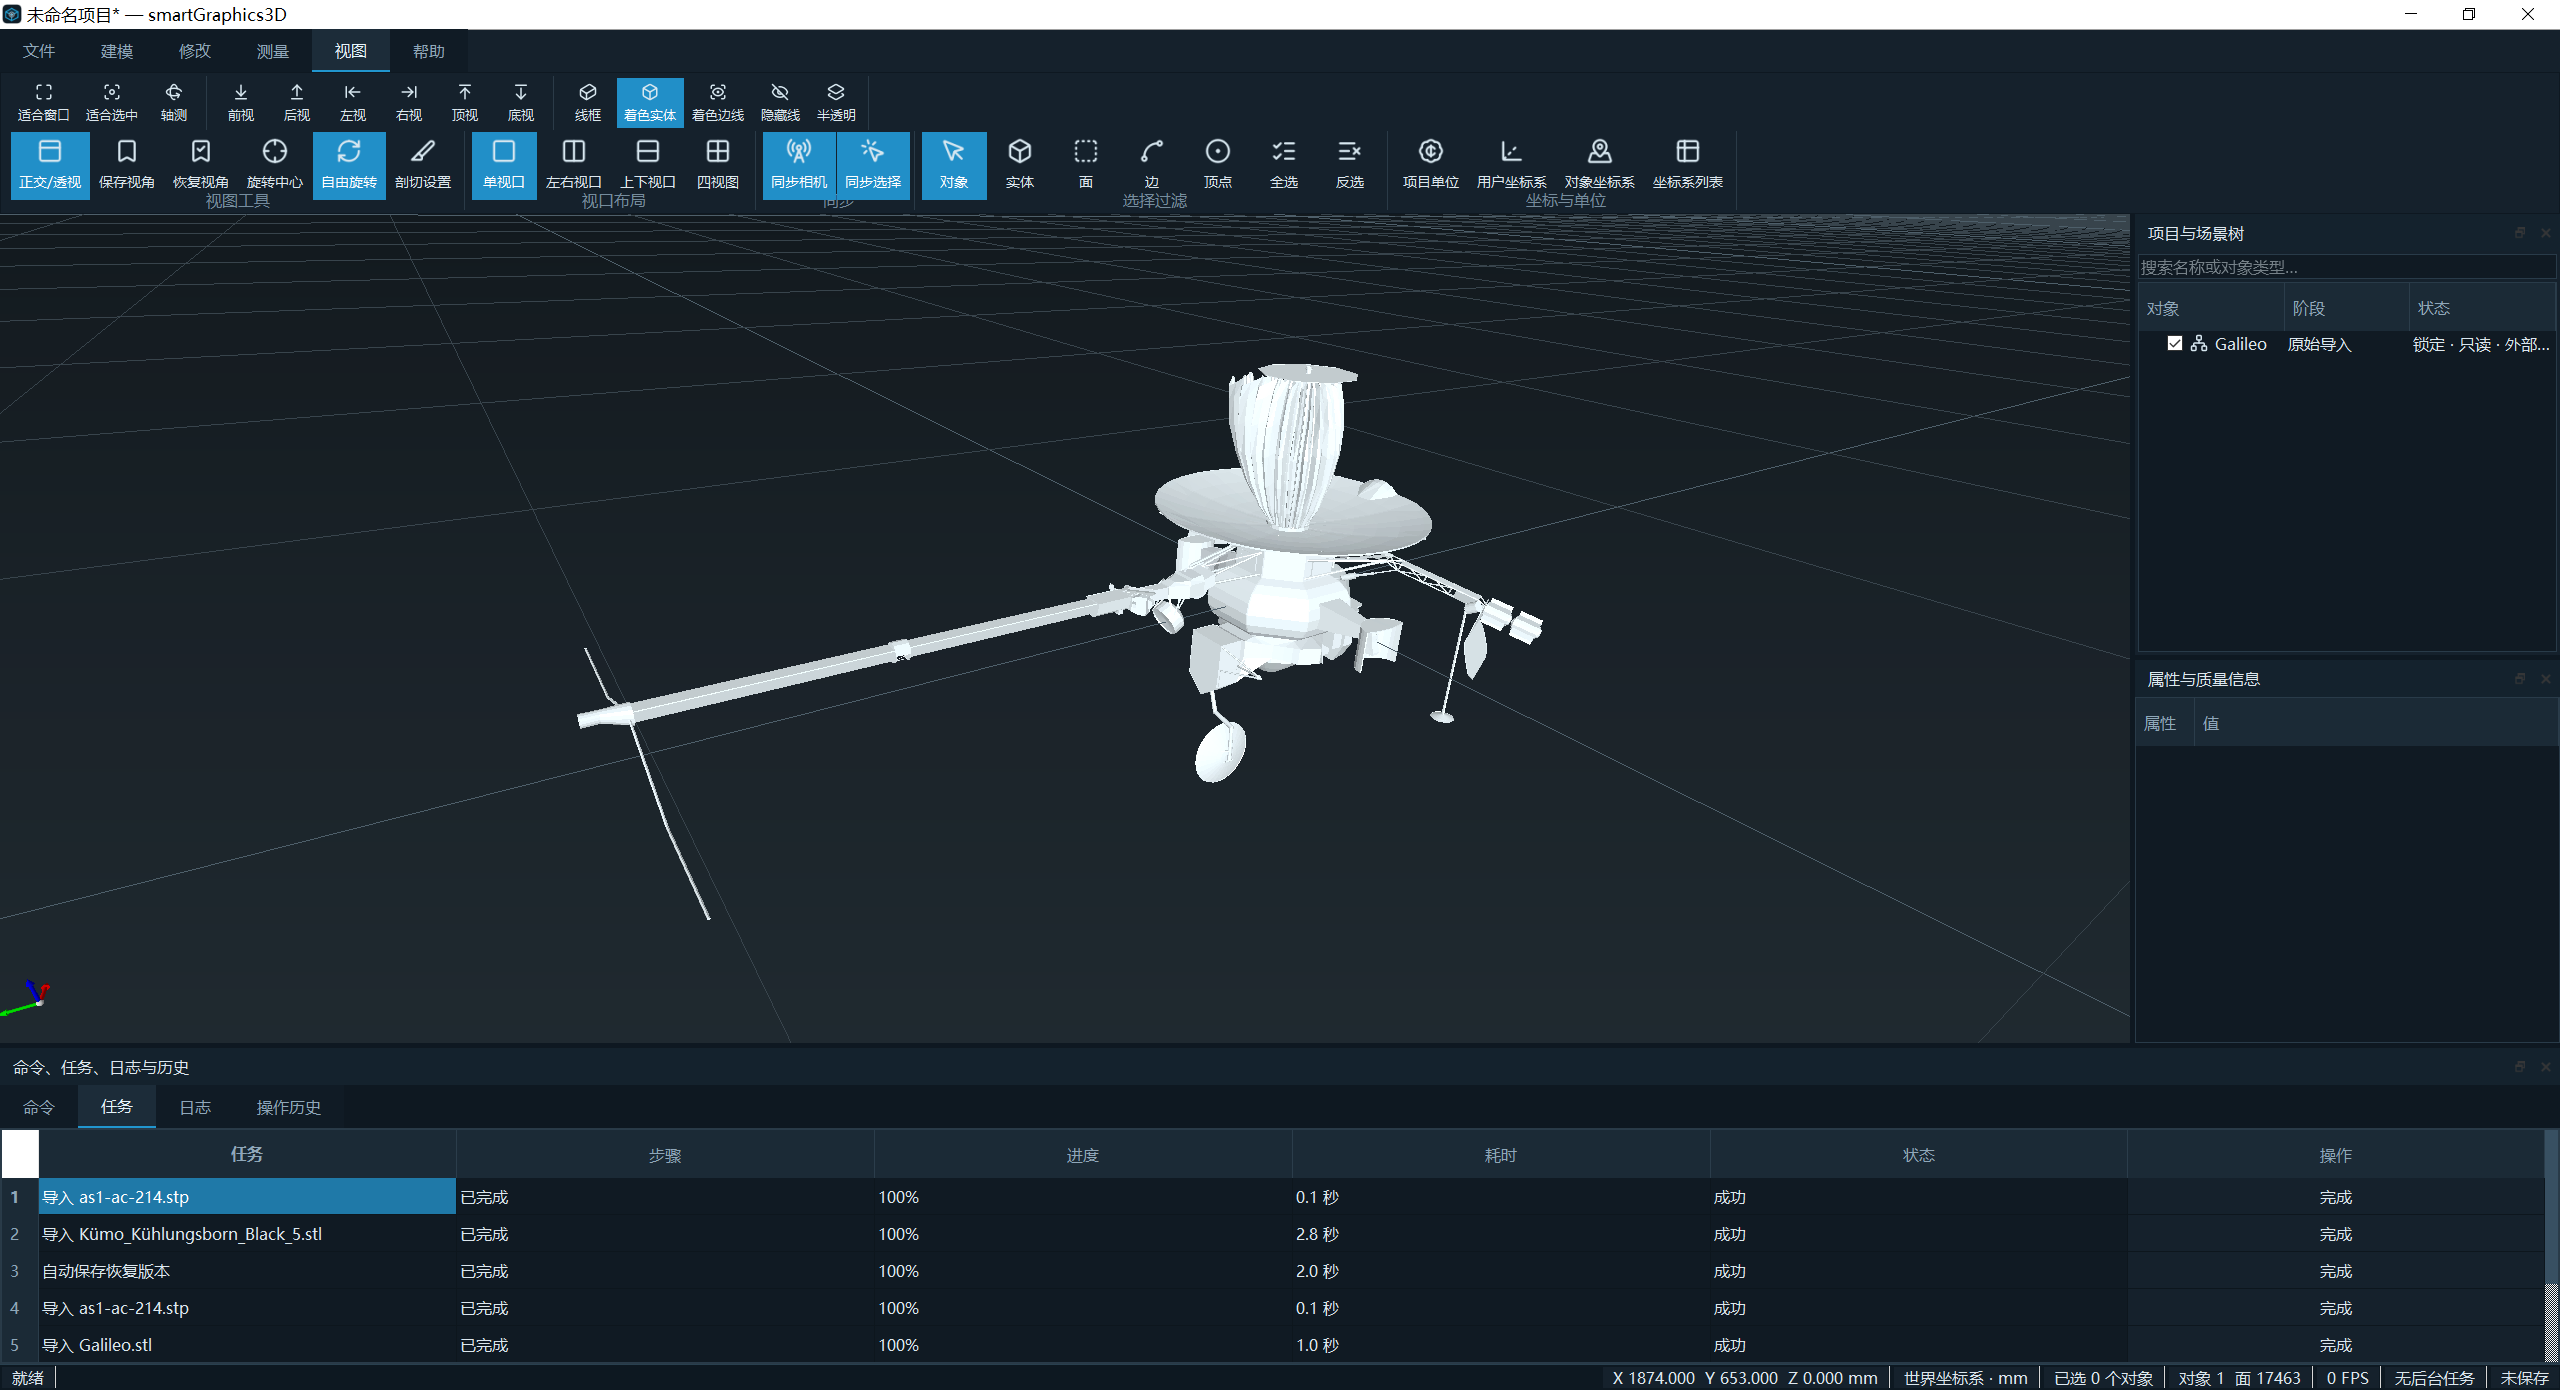
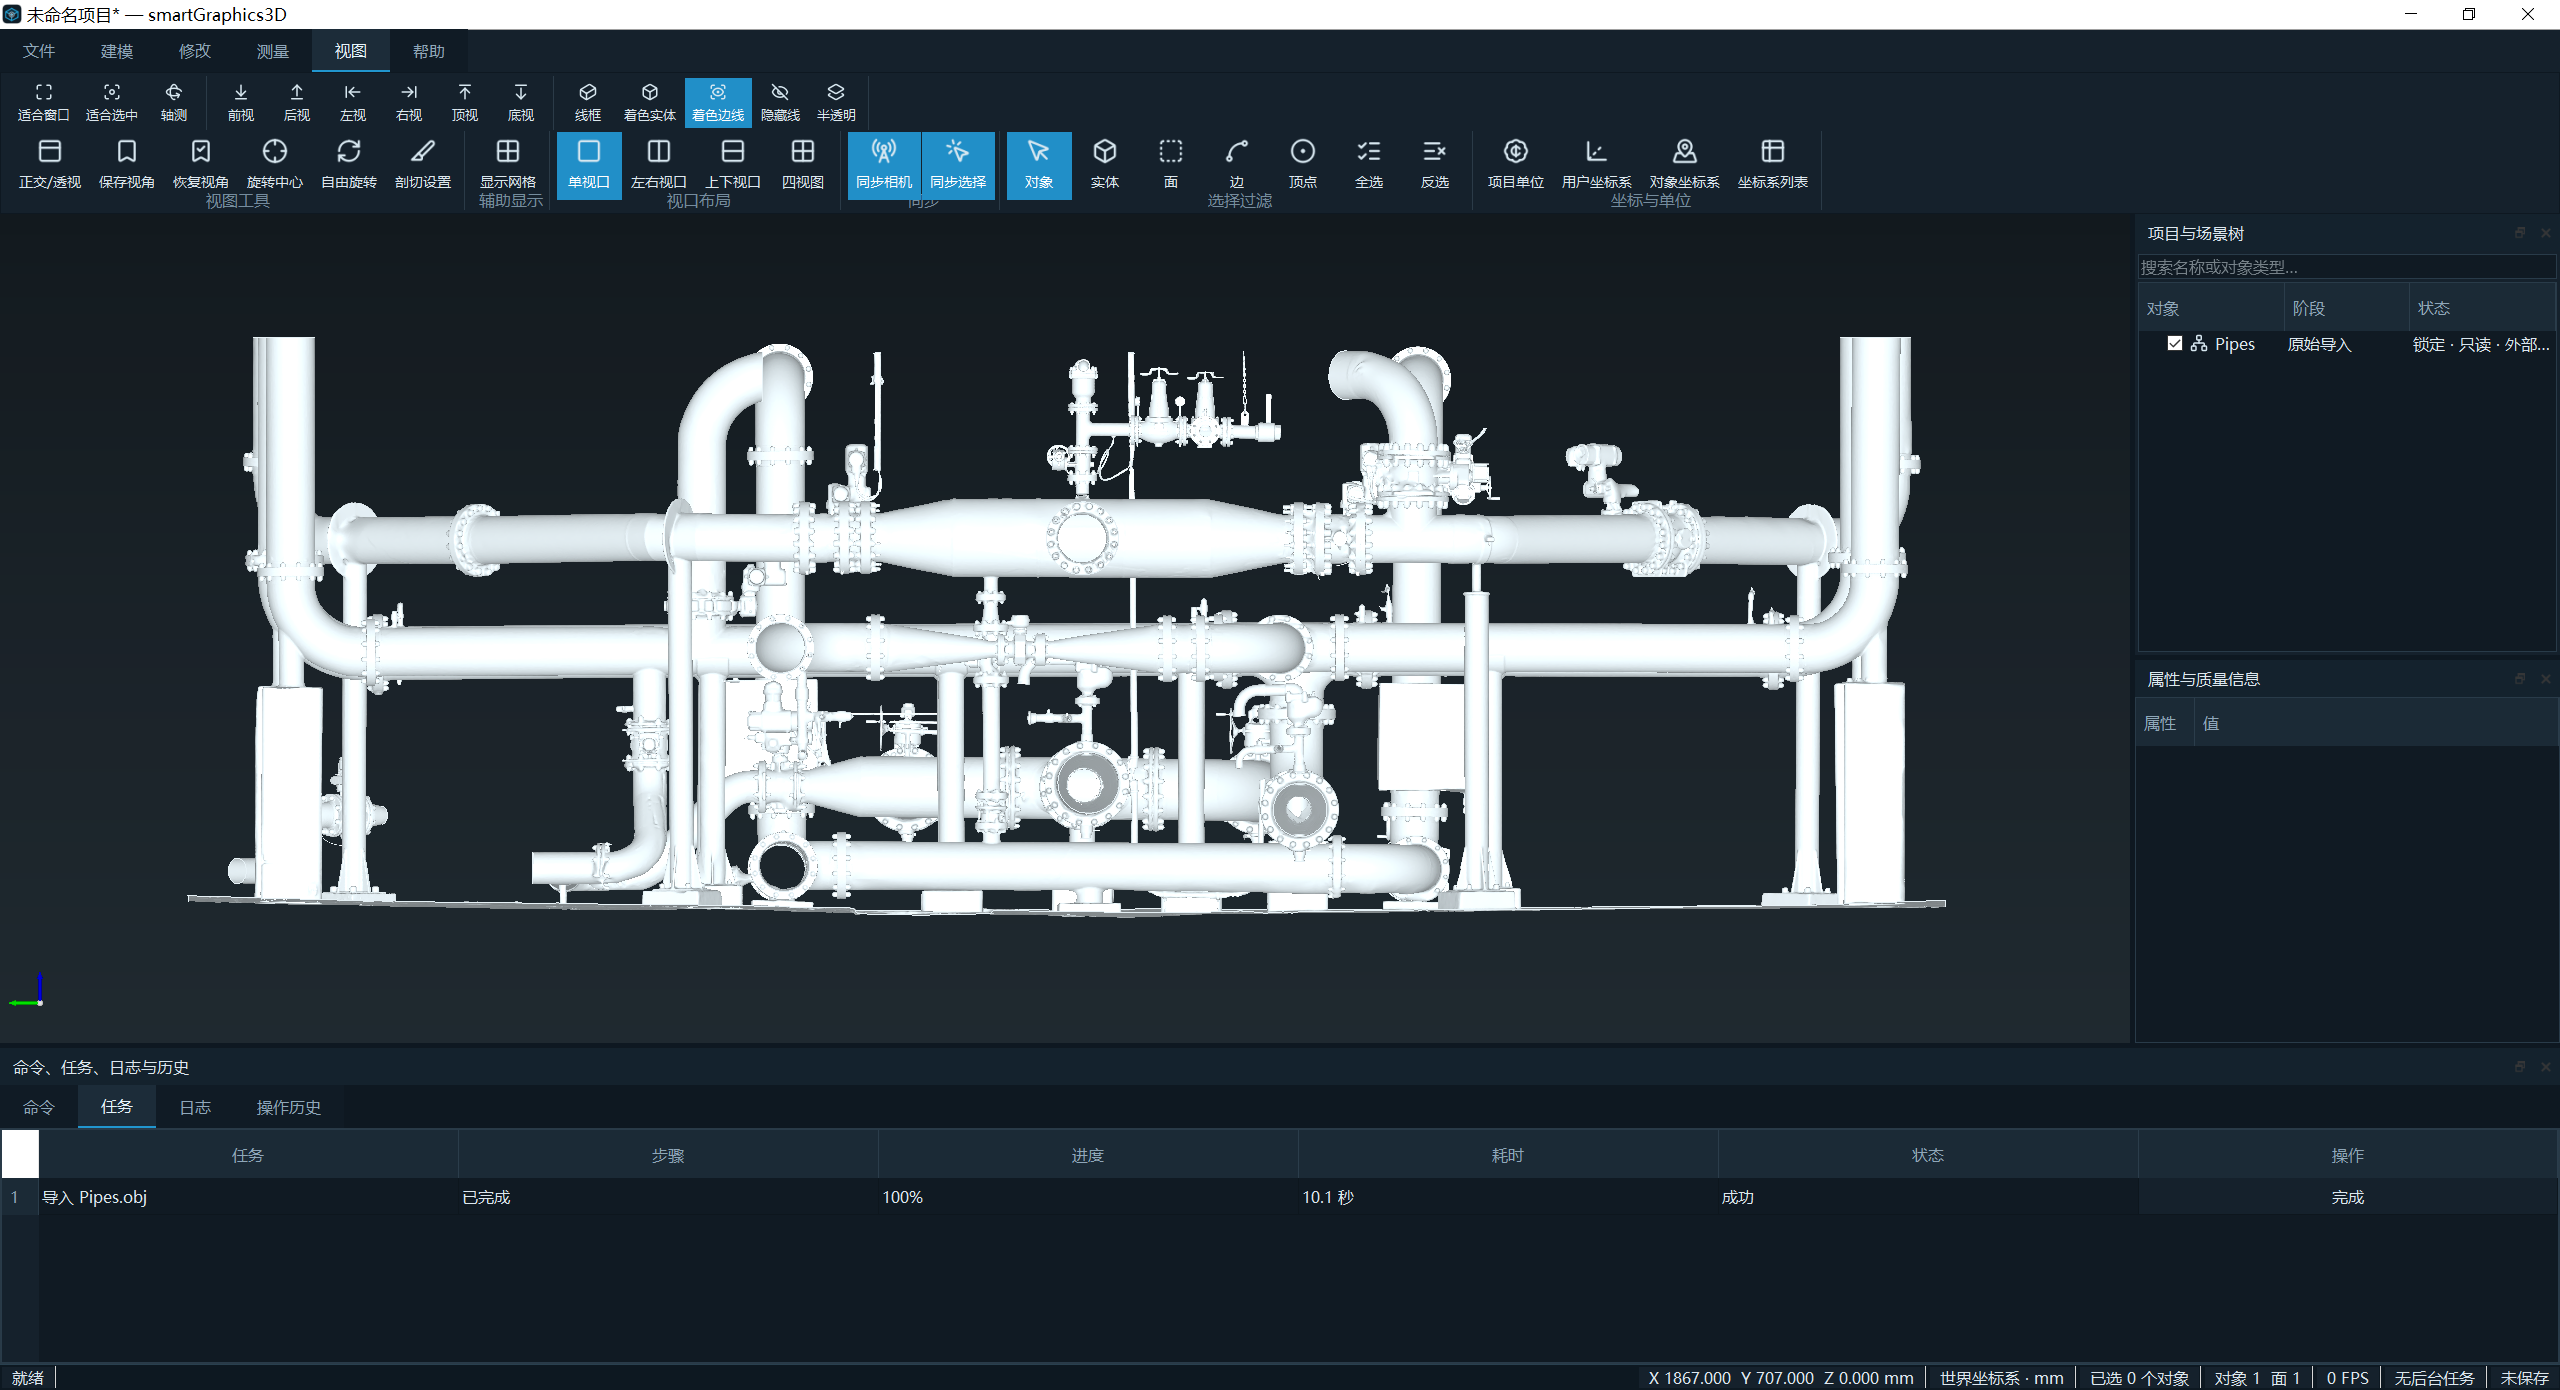
docs: 更新README界面展示图

diff --git a/README.md b/README.md
@@ -9,7 +9,7 @@ smartGraphics3D 是一个基于 C++17、Qt 5.12.10 和 OpenCascade 7.7.0 的 Win
 ![smartGraphics3D 主界面](sgraphDocs/images/smartgraphics3d-main-window.png)
 
 上图为实际软件界面，展示了 Ribbon 工具栏、三维视口、项目与场景树、属性面板以及后台
-任务列表。
+任务列表。视口中的管线示例模型来源于网络，仅用于界面展示，模型文件不随仓库分发。
 
 ## 核心亮点：AIS 共享显示实例
 
